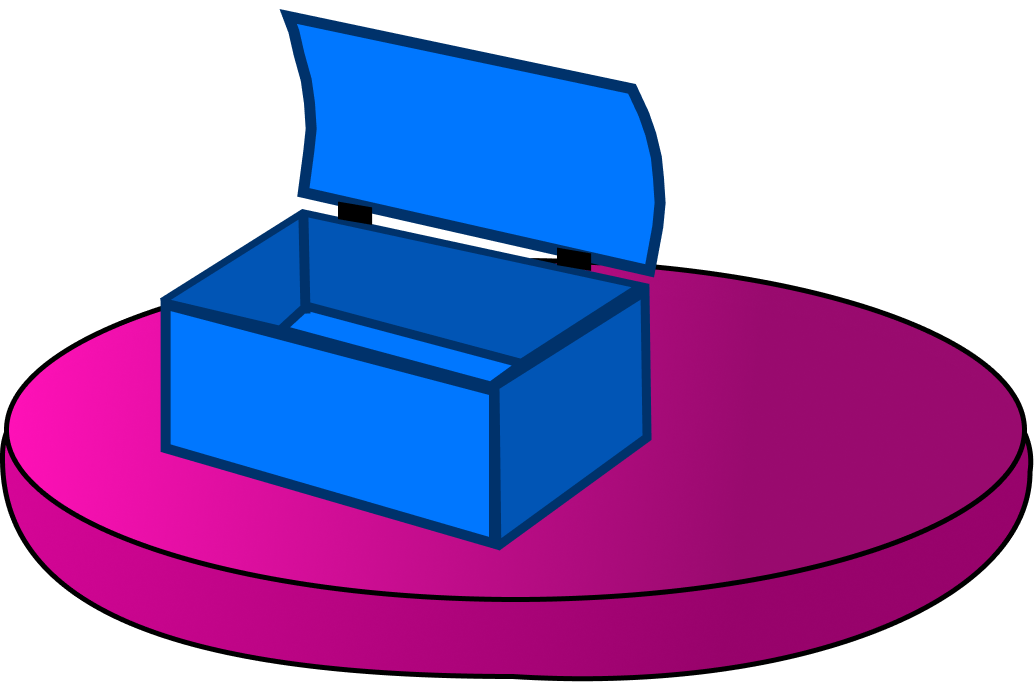
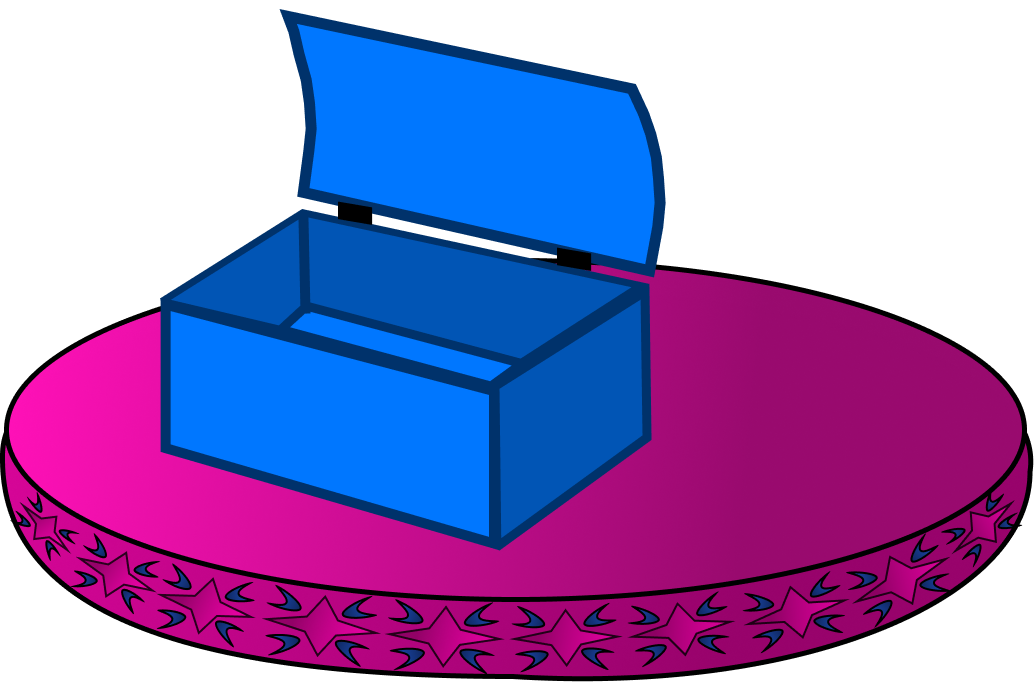
7

Changed region(s): [[0.0, 0.739, 0.9903, 0.9853]]

diff --git a/css/style.css b/css/style.css
@@ -1,19 +1,20 @@
 @import url('reset.css');
 @import url('fonts.css');
 * {
+    box-sizing: border-box;
     font-family: "Amatic SC";
 }
 body {
     display: flex;
     flex-direction: column;
     align-items: center;
-    overflow-x: clip;
+    overflow-x: hidden;
     overflow-y: auto;
+    /* background-color: black; */
 }
 .first {
     background-color: black;
     display: flex;
-    
     flex-direction: column;
     justify-content: space-between;
     align-items: center;
@@ -24,7 +25,7 @@ body {
     container-type: size;
     container-name: test;
     .windows {
-        margin-top: 36px;
+        margin-top: 20px;
         width: 313px;
     }
     .lightsContainer {
@@ -36,6 +37,7 @@ body {
         z-index: 1;
         @container test (max-height: 900px) {
             .lights{
+                /* margin-bottom: 128px; */
                 margin-bottom: 24px;
             }
         }
@@ -44,7 +46,9 @@ body {
         }
         @container test (min-height: 1800px) {
             align-items: flex-start;
-        }
+        
+}
+
     }
 }
 .doors {
@@ -62,41 +66,66 @@ body {
     width: 1240px;
     height: 1240px;
 }
-.second {
-    background-color: black;
-    display: flex;
-    padding: 0 240px;
-    flex-direction: column;
-    width: 100%;
-    max-width: 100%;
-    height: 125vh;
-}
-.textt {
-    font-size: 96px;
-    color: #FF10B7;
-    letter-spacing: -1px;
-    padding: 30px 30px;
-    display: flex;
-    justify-content: center;
+.twoEl{
+  display: flex; 
+  flex-direction: row; 
+  justify-content: space-around;
+  z-index: 2; 
+  gap: 138px;
+  pointer-events: none;
 }
 
+@media screen and (max-width: 1024px){
+    .light-right {
+        display: none;
+    }
+    .light-left {
+    margin-right: 180px !important;
+}
+    .window-right {
+        display: none;
+    }
+}
+@media screen and (max-width: 1300px){
+    .twoEl{  
+      gap: 50px;
+    }
+    .doors {
+    height: 780px;
+    }
+    .lights {
+    width: 1154px;
+    }
+}
+@media screen and (max-width: 1170px){
+    .twoEl{  
+      gap: 50px;
+    }
+    .doors {
+    height: 680px;
+    }
+    .lights {
+    width: 1154px;
+    }
+    .first .windows {
+        margin-top: 0;
+        width: 280px;
+
+    }  
+}
 
 
-
-/* img {
-  display: block;
-  max-width: 100%;
-} */
 
 .second {
   position: relative;
   display: flex;
   flex-direction: column;
   align-items: center;
-  gap: 100px;
-  min-height: 100vh;
+  gap: 10px;
+  min-height: 120vh;
   overflow: hidden;
   background-color: #000;
+  width: 100%;
 }
 
 h1 {
@@ -111,7 +140,7 @@ h1 {
 
 #ribbon {
   position: absolute;
-  bottom: 0;
+  bottom: 80px;
   left: 50%;
   z-index: 100;
   width: 140vw;
@@ -128,7 +157,7 @@ h1 {
   align-items: flex-end;
   justify-content: space-between;
   width: 100%;
-  max-width: 1700px;
+  max-width: 1920px;
 }
 
 .windows-container {
@@ -138,7 +167,9 @@ h1 {
   display: grid;
   justify-content: center;
   width: 100%;
-  gap: 50px;
+  gap: 40px;
+  flex-wrap: nowrap;
+  display: flex;
 }
 
 #hands {
@@ -146,14 +177,15 @@ h1 {
   display: flex;
   align-items: center;
   justify-content: center;
-  margin-top: -100px;
-  overflow: hidden;
-}
+  margin-top: -134px;
 
+
+}
+/* 
 #hands img {
   width: 105%;
   height: auto;
-}
+} */
 
 #table {
   z-index: 10;
@@ -174,6 +206,8 @@ h1 {
   height: 100%;
 }
 
+
+
 .window {
   width: 200px;
   height: auto;
@@ -189,15 +223,13 @@ h1 {
 }
 
 @media screen and (max-width: 1024px) {
-  section {
+  .second {
     gap: 0;
     padding-bottom: 240px;
   }
-
   h1 {
     font-size: 70px;
   }
-
   #ribbon {
     bottom: 290px;
     width: 150vw;
@@ -208,12 +240,10 @@ h1 {
     top: 50%;
     transform: translateY(-50%);
   }
-
   .hands-and-table {
     flex-direction: column;
     align-items: center;
   }
-
   #hands {
     align-items: flex-start;
     height: 500px;
@@ -244,18 +274,16 @@ h1 {
     height: auto;
     transform: translateX(-50%);
   }
+.table-container .table-top {
+  transform: translateX(-389px);
+}
 
   .vignette {
     display: block;
     background: linear-gradient(360deg, #000 20.36%, rgba(0, 0, 0, 0) 50.75%);
   }
+
 }
-
-
-
-
-
-
 
 .third{
     height: 120vh;
@@ -269,6 +297,7 @@ h1 {
     .textt{
         font-size: 110px;
         text-align: center;
+        color: #ff10b7;
     }
 }
 .stairs{

diff --git a/index.html b/index.html
@@ -17,15 +17,15 @@
         <div style="height: 1px;">
             <div class="lightsContainer">
                 <img class="lights light-left" style="margin-right: -560px; pointer-events: auto;" data-js="lightOn" src="images/LightOn.png">
-                <img class="lights"  data-js="lightOn" src="images/LightOn.png">
+                <img class="lights light-right"  data-js="lightOn" src="images/LightOn.png">
             </div>
         </div>
-        <div style="display: flex; flex-direction: row; justify-content: space-around; z-index: 2; gap: 138px;pointer-events: none">
-            <img class="windows" src="images/window.svg">
+        <div class="twoEl">
+            <img class="windows window-left" src="images/window.svg">
             <div class="doors">
                 <img style="background-size: cover;" src="images/doorFront.svg">
             </div>
-            <img class="windows" src="images/window.svg">
+            <img class="windows window-right" src="images/window.svg">
         </div>
 
     </div>
@@ -43,8 +43,11 @@
         </div>
         <div id="table">
           <div class="table-container">
-            <img src="images/TableBottom.png" alt="" />
-            <img src="images/TableTop.png" alt="" />
+            <picture>
+              <source media="(max-width: 1024px)" srcset="images/TableBottom2.png" />
+              <img src="images/TableBottom.png" alt="" />
+            </picture>
+            <img class="table-top" src="images/TableTop.png" alt="" />
           </div>
         </div>
       </div>

diff --git a/script.js b/script.js
@@ -1,6 +1,5 @@
 document.addEventListener('DOMContentLoaded', () => {
     let lights = document.querySelectorAll('[data-js="lightOn"]');
-    let index = 0;
     lights.forEach((light) => {
         let broken = false;
         light.addEventListener('click', () => {
@@ -23,7 +22,7 @@ document.addEventListener('DOMContentLoaded', () => {
   }
 
   const WINDOW_SIZE = 200;
-  const WINDOW_GAP = 50;
+  const WINDOW_GAP = 20;
   const WINDOW_STEP = WINDOW_SIZE + WINDOW_GAP;
 
   function fillContainer() {
@@ -36,7 +35,7 @@ document.addEventListener('DOMContentLoaded', () => {
     for (let i = 0; i < columns; i += 1) {
       const window = document.createElement("img");
       window.classList.add("window");
-      window.src = "images/window.png";
+      window.src = "images/window.svg";
       containerOfWindows.appendChild(window);
     }
   }
